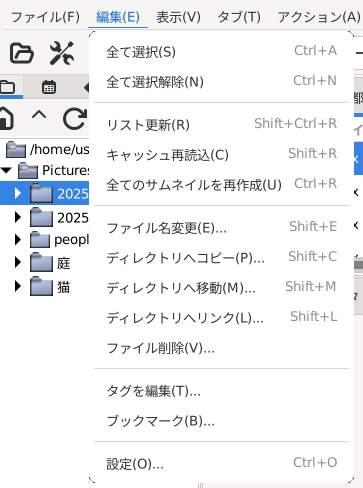
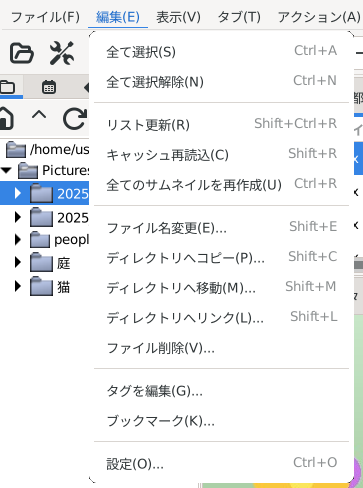
Menus: no mnemonic used twice
The mnemonics of the right button menus and the Edit menus are made
unique, leaving the items that were there as they were:

  Bookmark...            B -> K  (Memory Buffer is B)
  Edit Tags...           T -> G  (Create Thumbnail, Toolbar are T)
  Slideshow Player       P -> L  (Edit Faces, Player are P)
  Player                 P -> Y
  Ignore Alpha Channel   A -> H  (Statusbar is A; none in ja before)
  Print...               P -> I  (Properties, Edit Faces are P)
  Open in External Program  X -> T  (Scan EXIF Data is X)
  ja: Edit Comment of the thumbnail view  C -> E, as in English
      (Copy Files To is C)

The accelerator paths have no underscores, so the keys given in
~/.gimv/keyaccelrc are not changed.  The screenshots of these menus
are taken again.

Changed region(s): [[0.5455, 0.6455, 1.0, 1.0], [0.4848, 0.7684, 0.5455, 0.8914]]

diff --git a/doc/ja/05.html b/doc/ja/05.html
@@ -33,7 +33,7 @@
 <div class="sect2">
 <div class="titlepage"><div><h3 class="title">
 <a name="05-01"></a>5.1. サムネイルビュー</h3></div></div>
-<div class="figure"><img class="popup" src="images/popup_thumbview.png" width="219" height="469" alt="サムネイルビューのマウスメニュー (画像ファイルの上で表示した場合)">
+<div class="figure"><img class="popup" src="images/popup_thumbview.png" width="208" height="549" alt="サムネイルビューのマウスメニュー (画像ファイルの上で表示した場合)">
 <p class="caption">サムネイルビューのマウスメニュー (画像ファイルの上で表示した場合)</p></div>
 <p class="para">
 サムネイルビュー上でのマウスメニューです。複数選択されている場合、選択されている全ての画像に対して有効です。
@@ -221,7 +221,7 @@ EXIF 対応で作成した場合にある項目です。画像の EXIF データ
 <div class="sect2">
 <div class="titlepage"><div><h3 class="title">
 <a name="05-05"></a>5.5. イメージビュー</h3></div></div>
-<div class="figure"><img class="popup" src="images/popup_imageview.png" width="279" height="469" alt="イメージウィンドウのイメージビューのマウスメニュー">
+<div class="figure"><img class="popup" src="images/popup_imageview.png" width="269" height="549" alt="イメージウィンドウのイメージビューのマウスメニュー">
 <p class="caption">イメージウィンドウのイメージビューのマウスメニュー</p></div>
 <p class="para">
 イメージウィンドウのイメージビュー上のマウスメニューは、イメージウィンドウの [表示] メニュー (<a href="03.html#03-03" title="3.3. 表示">項3.3</a>) と同じです。

diff --git a/doc/en/05.html b/doc/en/05.html
@@ -33,7 +33,7 @@ This section describes the menus shown with a mouse button (mouse menus).  With 
 <div class="sect2">
 <div class="titlepage"><div><h3 class="title">
 <a name="05-01"></a>5.1. Thumbnail View</h3></div></div>
-<div class="figure"><img class="popup" src="images/popup_thumbview.png" width="237" height="469" alt="The mouse menu of the thumbnail view (shown on an image file)">
+<div class="figure"><img class="popup" src="images/popup_thumbview.png" width="227" height="549" alt="The mouse menu of the thumbnail view (shown on an image file)">
 <p class="caption">The mouse menu of the thumbnail view (shown on an image file)</p></div>
 <p class="para">
 The mouse menu of the thumbnail view.  When several files are selected, it applies to all selected images.
@@ -221,7 +221,7 @@ The mouse menu of the preview has Zoom, Rotate, Ignore Alpha Channel, Checkerboa
 <div class="sect2">
 <div class="titlepage"><div><h3 class="title">
 <a name="05-05"></a>5.5. Image View</h3></div></div>
-<div class="figure"><img class="popup" src="images/popup_imageview.png" width="294" height="469" alt="The mouse menu of the image view in the image window">
+<div class="figure"><img class="popup" src="images/popup_imageview.png" width="284" height="549" alt="The mouse menu of the image view in the image window">
 <p class="caption">The mouse menu of the image view in the image window</p></div>
 <p class="para">
 The mouse menu of the image view in the image window is the same as the [View] menu of the image window (<a href="03.html#03-03" title="3.3. View">3.3</a>).

diff --git a/doc/en/03.html b/doc/en/03.html
@@ -117,7 +117,7 @@ All thumbnail windows and image windows are closed.
 <a name="03-02"></a>3.2. Edit</h3></div></div>
 <div class="figure"><img src="images/menu_edit.png" width="288" height="482" alt="The Edit menu of the thumbnail window (one image selected)">
 <p class="caption">The Edit menu of the thumbnail window (one image selected)</p></div>
-<div class="figure"><img src="images/menu_i_edit.png" width="390" height="264" alt="The Edit menu of the image window">
+<div class="figure"><img src="images/menu_i_edit.png" width="386" height="266" alt="The Edit menu of the image window">
 <p class="caption">The Edit menu of the image window</p></div>
 <div class="variablelist"><dl>
 <dt><span class="term"><a name="select_all"></a>Select All [Ctrl + A]</span></dt>
@@ -244,7 +244,7 @@ See <a href="06.html" title="6. Preferences">6</a> for the settings.
 <a name="03-03"></a>3.3. View</h3></div></div>
 <div class="figure"><img src="images/menu_view.png" width="310" height="507" alt="The View menu of the thumbnail window">
 <p class="caption">The View menu of the thumbnail window</p></div>
-<div class="figure"><img src="images/menu_i_view.png" width="374" height="507" alt="The View menu of the image window">
+<div class="figure"><img src="images/menu_i_view.png" width="369" height="592" alt="The View menu of the image window">
 <p class="caption">The View menu of the image window</p></div>
 <div class="variablelist"><dl>
 <dt><span class="term"><a name="sort_file_list"></a>Sort File List</span></dt>

diff --git a/src/gimv_image_win.c b/src/gimv_image_win.c
@@ -316,12 +316,12 @@ GimvMenuEntry gimv_image_win_menu_items[] =
    {N_("/_Edit/Edit _Comment..."),       NULL,         cb_edit_comment,   0,  NULL},
    {N_("/_Edit/Scan E_XIF Data..."),       NULL,       cb_exif,           0,  NULL},
 #ifdef ENABLE_INDEX
-   {N_("/_Edit/Edit _Tags..."),          NULL,         cb_edit_tags,      0,  NULL},
+   {N_("/_Edit/Edit Ta_gs..."),          NULL,         cb_edit_tags,      0,  NULL},
 #endif
    {N_("/_Edit/Create _Thumbnail"),      "<shift>T",   cb_create_thumb,   0,  NULL},
    {N_("/_Edit/Copy the Image to the C_lipboard"), "<control><shift>C", cb_copy_to_clipboard, 0, NULL},
    /* no key: one can be given in ~/.gimv/keyaccelrc */
-   {N_("/_Edit/_Bookmark..."),           NULL,         cb_bookmark,       0,  NULL},
+   {N_("/_Edit/Boo_kmark..."),           NULL,         cb_bookmark,       0,  NULL},
    {N_("/_Edit/---"),                    NULL,         NULL,              0,  "<Separator>"},
    {N_("/_Edit/_Options..."),            "<control>O", cb_options,        0,  NULL},
 
@@ -342,24 +342,24 @@ GimvMenuEntry gimv_image_win_view_items [] =
    {N_("/tear"),          NULL,        NULL,                 0,  "<Tearoff>"},
    {N_("/_Zoom"),         NULL,        NULL,                 0,  "<Branch>"},
    {N_("/_Rotate"),       NULL,        NULL,                 0,  "<Branch>"},
-   {N_("/Ignore _Alpha Channel"), NULL,cb_ignore_alpha,      0,  "<ToggleItem>"},
+   {N_("/Ignore Alp_ha Channel"), NULL,cb_ignore_alpha,      0,  "<ToggleItem>"},
    {N_("/_Checkerboard Behind Transparency"), NULL, cb_alpha_checker, 0, "<ToggleItem>"},
    {N_("/Edit Faces (_People)"), "P",  cb_edit_faces,        0,  NULL},
    /* also in the right button menu of the image (this menu) */
 #ifdef ENABLE_INDEX
-   {N_("/Edit _Tags..."),  NULL,       cb_edit_tags,         0,  NULL},
+   {N_("/Edit Ta_gs..."),  NULL,       cb_edit_tags,         0,  NULL},
 #endif
-   {N_("/_Bookmark..."),   NULL,       cb_bookmark,          0,  NULL},
+   {N_("/Boo_kmark..."),   NULL,       cb_bookmark,          0,  NULL},
    {N_("/---"),           NULL,        NULL,                 0,  "<Separator>"},
    {N_("/_Menubar"),     "M",         cb_toggle_menubar,    0,  "<ToggleItem>"},
    {N_("/_Toolbar"),     "N",         cb_toggle_toolbar,    0,  "<ToggleItem>"},
-   {N_("/Slideshow _Player"), "<shift>N", cb_toggle_player,     0,  "<ToggleItem>"},
+   {N_("/S_lideshow Player"), "<shift>N", cb_toggle_player,     0,  "<ToggleItem>"},
    {N_("/St_atusbar"),   "V",         cb_toggle_statusbar,  0,  "<ToggleItem>"},
    {N_("/_Scrollbar"),   "<shift>S",  cb_toggle_scrollbar,  0,  "<ToggleItem>"},
-   {N_("/_Player"),       NULL,        NULL,                 0,              "<Branch>"},  
-   {N_("/_Player/_Show"), NULL,        cb_switch_player,     GimvImageViewPlayerVisibleShow, "<RadioItem>"},  
-   {N_("/_Player/_Hide"), NULL,        cb_switch_player,     GimvImageViewPlayerVisibleHide, "/Player/Show"},  
-   {N_("/_Player/_Auto"), NULL,        cb_switch_player,     GimvImageViewPlayerVisibleAuto, "/Player/Hide"},  
+   {N_("/Pla_yer"),       NULL,        NULL,                 0,              "<Branch>"},  
+   {N_("/Pla_yer/_Show"), NULL,        cb_switch_player,     GimvImageViewPlayerVisibleShow, "<RadioItem>"},  
+   {N_("/Pla_yer/_Hide"), NULL,        cb_switch_player,     GimvImageViewPlayerVisibleHide, "/Player/Show"},  
+   {N_("/Pla_yer/_Auto"), NULL,        cb_switch_player,     GimvImageViewPlayerVisibleAuto, "/Player/Hide"},  
    {N_("/---"),           NULL,        NULL,                 0,  "<Separator>"},
    {N_("/_View Modes"),   NULL,        NULL,                 0, "<Branch>"},
    {N_("/---"),           NULL,        NULL,                 0,  "<Separator>"},

diff --git a/src/gimv_thumb_view.c b/src/gimv_thumb_view.c
@@ -223,22 +223,22 @@ static GimvMenuEntry thumb_button_popup_items [] =
    {N_("/Open in New _Window"),       NULL,  cb_open_image,    GIMV_THUMB_VIEW_OPEN_IMAGE_NEW_WIN,     NULL},
    {N_("/Open in S_hared Window"),    NULL,  cb_open_image,    GIMV_THUMB_VIEW_OPEN_IMAGE_SHARED_WIN,  NULL},
    {N_("/Open the _Folder"),          NULL,  cb_open_folder,   0,           NULL},
-   {N_("/Open in E_xternal Program"), NULL,  NULL,             0,           "<Branch>"},
+   {N_("/Open in Ex_ternal Program"), NULL,  NULL,             0,           "<Branch>"},
    {N_("/_Scripts"),                  NULL,  NULL,             0,           "<Branch>"},
    {N_("/---"),                       NULL,  NULL,             0,           "<Separator>"},
    {N_("/_Update Thumbnail"),         NULL,  cb_recreate_thumbnail,  0,     NULL},
    {N_("/Remo_ve from List"),         NULL,  cb_remove_thumbnail,    0,     NULL},
    {N_("/---"),                       NULL,  NULL,             0,           "<Separator>"},
-   {N_("/_Print..."),                 NULL,  cb_print,         0,           NULL},
+   {N_("/Pr_int..."),                 NULL,  cb_print,         0,           NULL},
    {N_("/_Properties..."),              NULL,  cb_file_property, 0,           NULL},
 #ifdef ENABLE_EXIF
    {N_("/Scan E_XIF Data..."),        NULL,  cb_exif,          0,           NULL},
 #endif
    {N_("/_Edit Comment..."),          NULL,  cb_edit_comment,  0,           NULL},
 #ifdef ENABLE_INDEX
-   {N_("/Edit _Tags..."),             NULL,  cb_edit_tags,     0,           NULL},
+   {N_("/Edit Ta_gs..."),             NULL,  cb_edit_tags,     0,           NULL},
 #endif
-   {N_("/_Bookmark..."),              NULL,  cb_bookmark,      0,           NULL},
+   {N_("/Boo_kmark..."),              NULL,  cb_bookmark,      0,           NULL},
    {N_("/---"),                       NULL,  NULL,             0,           "<Separator>"},
    {N_("/Re_name..."),                NULL,  cb_rename_file,   0,           NULL},
    {N_("/_Copy Files To..."),         NULL,  cb_file_operate,  FILE_COPY,   NULL},

diff --git a/src/gimv_image_view.c b/src/gimv_image_view.c
@@ -348,7 +348,7 @@ GimvMenuEntry gimv_image_view_popup_items [] =
    {N_("/tear"),                  NULL,         NULL,                0, "<Tearoff>"},
    {N_("/_Zoom"),                 NULL,         NULL,                0, "<Branch>"},
    {N_("/_Rotate"),               NULL,         NULL,                0, "<Branch>"},
-   {N_("/Ignore _Alpha Channel"), NULL,         cb_ignore_alpha,     0, "<ToggleItem>"},
+   {N_("/Ignore Alp_ha Channel"), NULL,         cb_ignore_alpha,     0, "<ToggleItem>"},
    {N_("/_Checkerboard Behind Transparency"), NULL, cb_alpha_checker, 0, "<ToggleItem>"},
    {N_("/---"),                   NULL,         NULL,                0, "<Separator>"},
    {N_("/M_ovie"),                NULL,         NULL,                0, "<Branch>"},
@@ -361,13 +361,13 @@ GimvMenuEntry gimv_image_view_popup_items [] =
    {N_("/Copy the Image to the C_lipboard"), "<control><shift>C", cb_copy_to_clipboard, 0, NULL},
    {N_("/Edit Faces (_People)"),  "P",          cb_edit_faces,       0, NULL},
 #ifdef ENABLE_INDEX
-   {N_("/Edit _Tags..."),         NULL,         cb_edit_tags,        0, NULL},
+   {N_("/Edit Ta_gs..."),         NULL,         cb_edit_tags,        0, NULL},
 #endif
    /* no key: one can be given in ~/.gimv/keyaccelrc */
-   {N_("/_Bookmark..."),          NULL,         cb_bookmark,         0, NULL},
+   {N_("/Boo_kmark..."),          NULL,         cb_bookmark,         0, NULL},
    {N_("/Memory _Buffer"),        "<control>B", cb_toggle_buffer,    0, "<ToggleItem>"},
    {N_("/---"),                   NULL,         NULL,                0, "<Separator>"},
-   {N_("/_Print..."),             NULL,         cb_print,            0, NULL},
+   {N_("/Pr_int..."),             NULL,         cb_print,            0, NULL},
    {NULL, NULL, NULL, 0, NULL},
 };
 

diff --git a/src/gimv_thumb_win.c b/src/gimv_thumb_win.c
@@ -455,9 +455,9 @@ GimvMenuEntry gimv_thumb_win_menu_items[] =
    {N_("/_Edit/---"),                   NULL,         NULL,             0,            "<Separator>"},
    /* no key: one can be given in ~/.gimv/keyaccelrc */
 #ifdef ENABLE_INDEX
-   {N_("/_Edit/Edit _Tags..."),         NULL,         cb_edit_tags,     0,            NULL},
+   {N_("/_Edit/Edit Ta_gs..."),         NULL,         cb_edit_tags,     0,            NULL},
 #endif
-   {N_("/_Edit/_Bookmark..."),          NULL,         cb_bookmark,      0,            NULL},
+   {N_("/_Edit/Boo_kmark..."),          NULL,         cb_bookmark,      0,            NULL},
    {N_("/_Edit/---"),                   NULL,         NULL,             0,            "<Separator>"},
    {N_("/_Edit/_Options..."),           "<control>O", cb_open,          OPEN_PREFS,   NULL},
 
